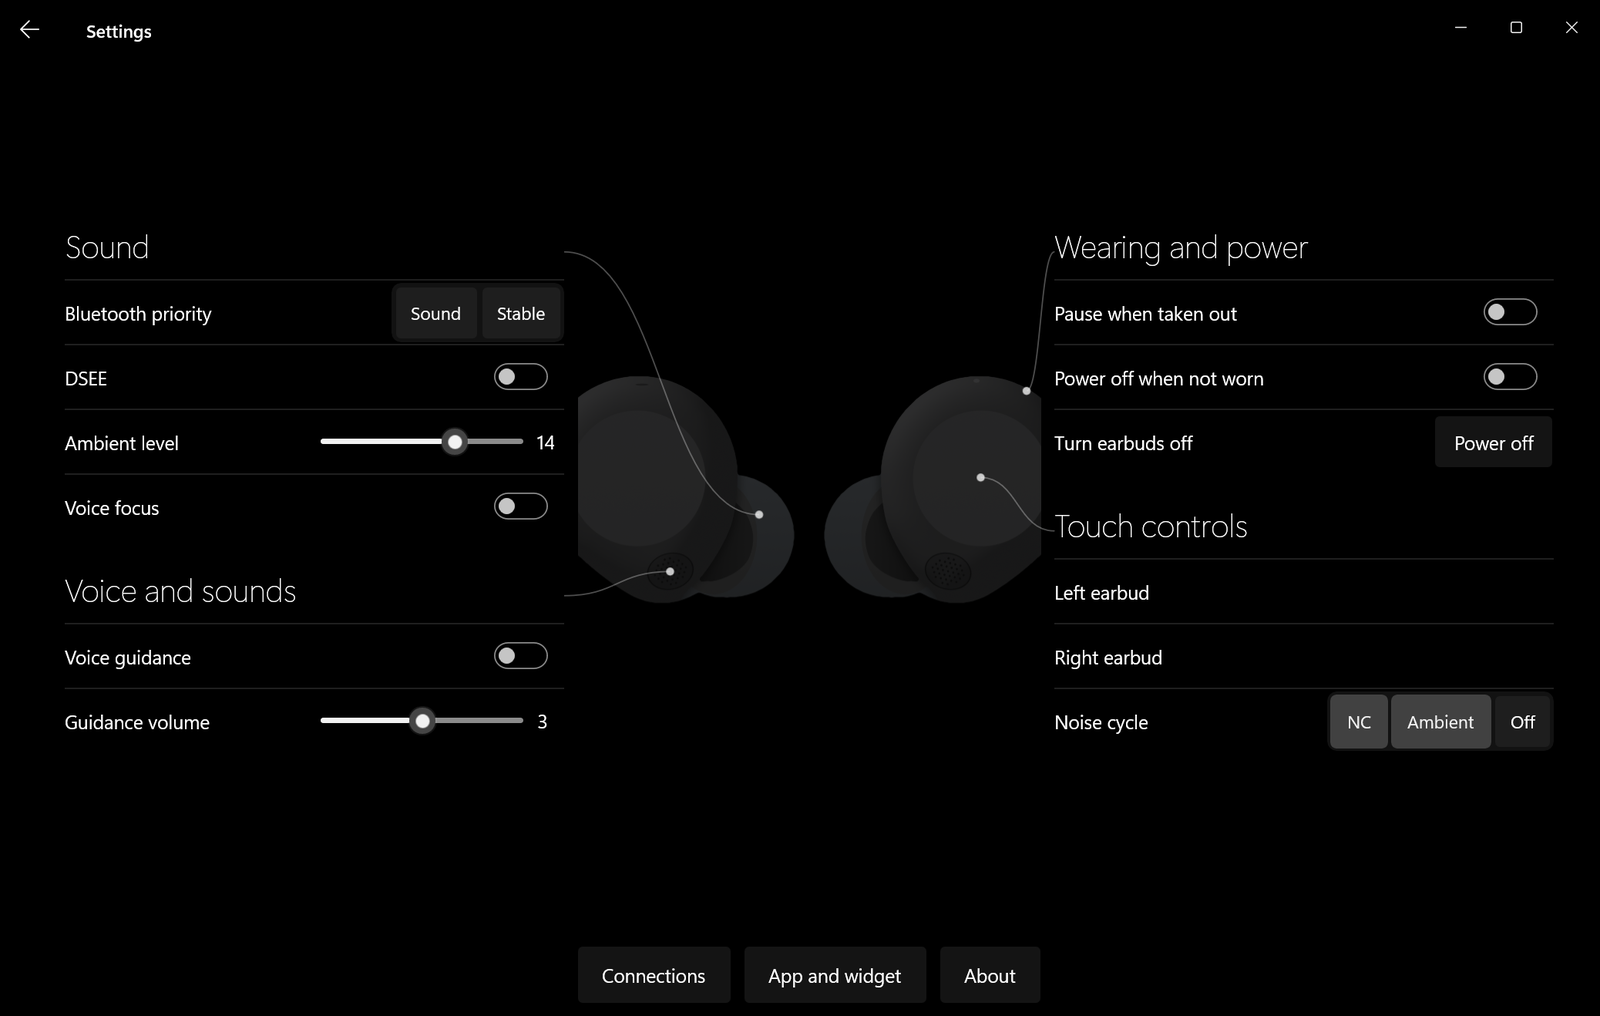
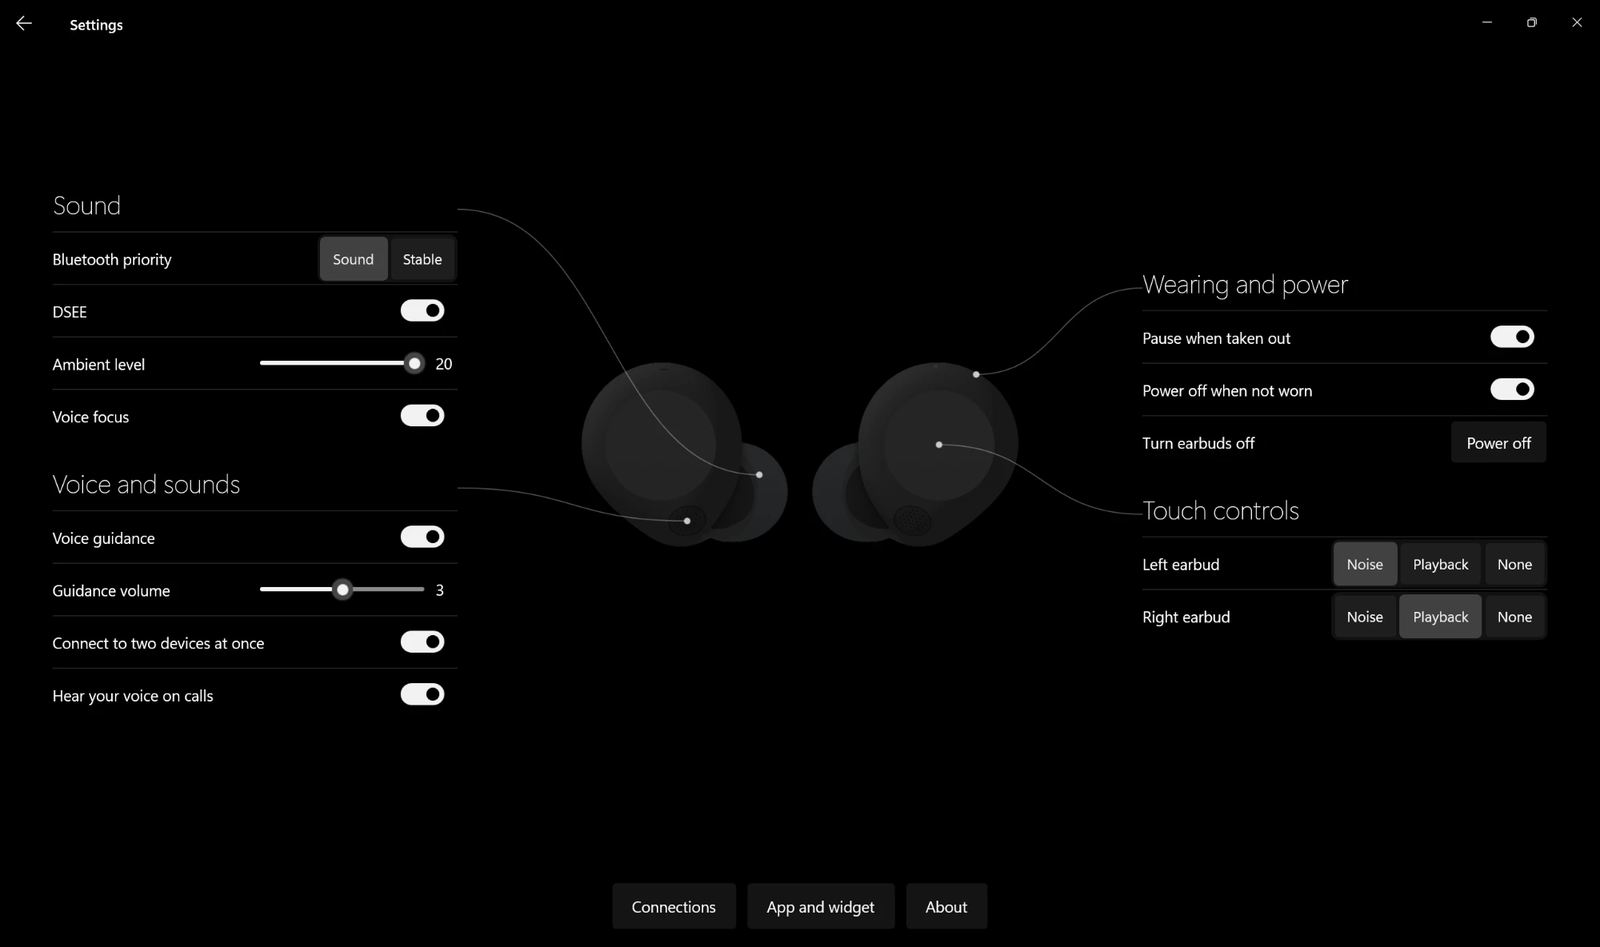
Use the owner's settings screenshot in the README
It shows the settings as read from real earbuds, including Connect to
two devices at once, Hear your voice on calls and the touch control
choices.

diff --git a/README.md b/README.md
@@ -41,7 +41,7 @@ without reaching for your phone.
 |---|---|---|
 | ![The EQ library open as frosted glass over the moving sound lines: two EQs on the earbuds, six on the main screen, and everything else](docs/images/library.png) | ![The EQ editor with music playing: the curve filled with a soft glow, a live analyser behind it, and the Clear Bass column on the left](docs/images/editor.png) | ![Hold to compare: the edited curve, with how it was shown as a dashed line](docs/images/compare.png) |
 
-![Settings: sound, voice and sounds, wearing and power, and touch controls, around a picture of the earbuds](docs/images/settings.png)
+![Settings around a picture of the earbuds: sound, voice and sounds (with connecting to two devices and hearing your voice on calls), wearing and power, and touch controls](docs/images/settings.png)
 
 ## Install
 
